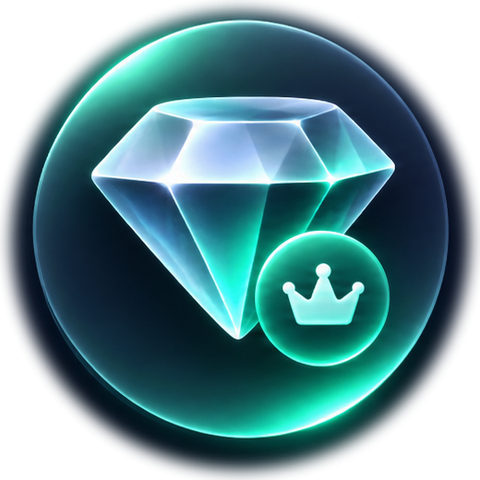
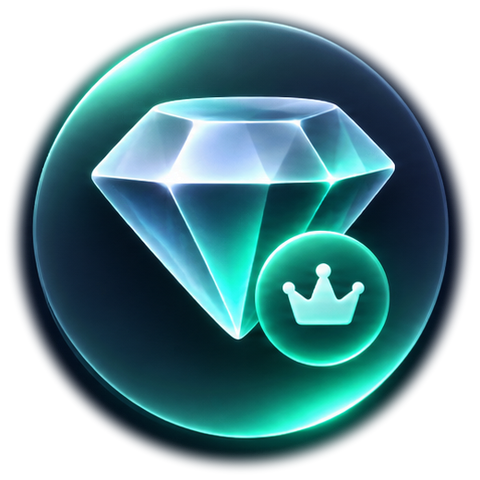
refactor(plus): compact premium layout — Pro card first, 3x2 tool grid, clean circular medallions
- Budgy Pro: now the FIRST element under the Plus header. Horizontal
  compact card (~100pt): 62pt 3D diamond left, title+status center,
  discreet chevron right, ink-blue surface with subtle emerald glow.
  Status stays exact & honest from canonical hasPremiumAccess():
  'Abonnement actif' (+mint dot) vs 'Découvrez tous les avantages'
  (no local trial date is invented — Apple trials are StoreKit intro
  offers reflected by server truth). Whole card is pressable.
- Alignment root cause FIXED: PressScale applied  to the outer
  Animated.View, so row layouts placed on it never reached the inner
  Pressable's children (vertical stacking on RN). Additive, backward
  compatible  prop now styles the Pressable touch surface;
  no other PressScale call site changes behavior.
- Tools: 3 columns x 2 rows (Dettes / Tickets & reçus / Budgy Twin,
  Mon classeur / Calendrier financier / Export PDF). Compact cards
  (~122pt, radius 17), 58pt artwork, 11.5pt two-line centered titles
  with adjustsFontSizeToFit, smaller BETA badge and Pro locks kept away
  from the art, calmer unified glow (no six glowing ads effect).
  <360pt: 50pt art + short translated label 'Calendrier' (full title
  kept for VoiceOver). Accessibility fontScale >= 1.4: adaptive 2-column
  grid, nothing lost.
- Dark square halos removed from the 7 PNGs: each medallion had a
  near-opaque squared dark glow filling the 480x480 canvas. Applied a
  smoothstep radial feather (r 210->237) on the alpha channel only —
[…]

Changed region(s): [[0.0, 0.0, 1.0, 1.0]]

diff --git a/frontend/src/components/PremiumTools.tsx b/frontend/src/components/PremiumTools.tsx
@@ -1,12 +1,15 @@
 /**
- * BUDGY — Grille d'outils premium 3D (écran Plus) + carte Budgy Pro.
- * Illustrations statiques embarquées (assets/images/premium-tools, Metro),
- * style des références « Budgy_Premium_7_Boutons » : bleu nuit profond,
- * lueur menthe subtile, fines bordures lumineuses. Titres = i18n (4 langues),
- * routes/droits = catalogue FEATURE_BY_ID existant. Aucune animation permanente.
+ * BUDGY — Écran Plus : carte Budgy Pro compacte (en premier) + grille
+ * d'outils premium 3D en 3 colonnes × 2 rangées.
+ * Illustrations statiques embarquées (assets/images/premium-tools, Metro) —
+ * médaillons circulaires à fond transparent (halo carré nettoyé).
+ * Titres = i18n (4 langues), routes/droits = catalogue FEATURE_BY_ID existant.
+ * Aucune animation permanente ; pression subtile + haptique via PressScale
+ * (layout passé au Pressable via `contentStyle` pour un alignement correct
+ * sur iOS et Web).
  */
 import React, { useMemo } from 'react';
-import { View, Text, StyleSheet, Image, useWindowDimensions, Platform } from 'react-native';
+import { View, Text, StyleSheet, Image, useWindowDimensions, Platform, PixelRatio } from 'react-native';
 import { Ionicons } from '@expo/vector-icons';
 import { LinearGradient } from 'expo-linear-gradient';
 import { useRouter } from 'expo-router';
@@ -36,8 +39,10 @@ export default function PremiumTools({ isPro }: { isPro: boolean }) {
   const { t } = useTranslation();
   const router = useRouter();
   const { width } = useWindowDimensions();
-  const singleColumn = width < 340; // petits écrans : une colonne, textes jamais coupés
-  const styles = useMemo(() => makeStyles(C, singleColumn), [C, singleColumn]);
+  const narrow = width < 360; // petit iPhone : libellés courts, visuels réduits
+  // Très grands caractères d'accessibilité : 2 colonnes pour rester utilisable
+  const cols = PixelRatio.getFontScale() >= 1.4 ? 2 : 3;
+  const styles = useMemo(() => makeStyles(C, narrow, cols), [C, narrow, cols]);
 
   const tools = Object.keys(ART)
     .map((id) => FEATURE_BY_ID[id])
@@ -48,56 +53,30 @@ export default function PremiumTools({ isPro }: { isPro: boolean }) {
     else router.push(route as any);
   };
 
+  // Libellé affiché (court sur petit écran) — VoiceOver garde le titre complet
+  const label = (f: any) =>
+    narrow && f.id === 'calendar' ? t('plusV2.shortCalendar') : t(f.titleKey);
+
   return (
     <View>
-      {/* B. Mes outils — 6 cartes premium illustrées */}
-      <Text style={styles.sectionLabel}>{t('plusV2.tools')}</Text>
-      <View style={styles.grid}>
-        {tools.map((f: any, i: number) => {
-          const locked = f.tier === 'pro' && !isPro;
-          return (
-            <Animated.View key={f.id} entering={FadeInDown.duration(380).delay(60 + i * 45)} style={styles.cell}>
-              <PressScale
-                haptic="light"
-                onPress={() => open(f.route, f.tier)}
-                style={styles.toolCard}
-                accessibilityRole="button"
-                accessibilityLabel={`${t(f.titleKey)}${locked ? ` — ${t('plusV2.proDiscover')}` : ''}`}
-              >
-                <LinearGradient
-                  colors={['rgba(52,211,153,0.16)', 'rgba(52,211,153,0.02)', 'transparent']}
-                  start={{ x: 0, y: 0 }} end={{ x: 0.9, y: 0.9 }}
-                  style={StyleSheet.absoluteFill}
-                />
-                <View style={styles.badges}>
-                  {!!f.badge && <Text style={styles.beta}>{f.badge}</Text>}
-                  {locked && <Ionicons name="lock-closed" size={12} color="rgba(255,255,255,0.55)" />}
-                </View>
-                <Image source={ART[f.id as keyof typeof ART]} style={styles.art} resizeMode="contain" />
-                <Text style={styles.toolTitle} numberOfLines={2}>{t(f.titleKey)}</Text>
-              </PressScale>
-            </Animated.View>
-          );
-        })}
-      </View>
-
-      {/* C. Budgy Pro — carte exclusive pleine largeur */}
-      <Animated.View entering={FadeInDown.duration(380).delay(340)}>
+      {/* A. Budgy Pro — carte horizontale compacte, premier élément de Plus */}
+      <Animated.View entering={FadeInDown.duration(380).delay(40)}>
         <PressScale
           haptic="medium"
           onPress={() => router.push('/pro' as any)}
           style={styles.proCard}
+          contentStyle={styles.proContent}
           accessibilityRole="button"
           accessibilityLabel={`Budgy Pro — ${isPro ? t('plusV2.proActive') : t('plusV2.proDiscover')}`}
         >
           <LinearGradient
-            colors={['rgba(52,211,153,0.20)', 'rgba(16,185,129,0.04)', 'transparent']}
+            colors={['rgba(52,211,153,0.16)', 'rgba(16,185,129,0.03)', 'transparent']}
             start={{ x: 0, y: 0 }} end={{ x: 1, y: 1 }}
             style={StyleSheet.absoluteFill}
           />
           <Image source={PRO_ART} style={styles.proArt} resizeMode="contain" />
-          <View style={{ flex: 1 }}>
-            <View style={{ flexDirection: 'row', alignItems: 'center', gap: 8 }}>
+          <View style={styles.proBody}>
+            <View style={styles.proTitleRow}>
               <Text style={styles.proTitle}>Budgy Pro</Text>
               {isPro && <View style={styles.activeDot} />}
             </View>
@@ -105,44 +84,95 @@ export default function PremiumTools({ isPro }: { isPro: boolean }) {
               {isPro ? t('plusV2.proActive') : t('plusV2.proDiscover')}
             </Text>
           </View>
-          <Ionicons name="chevron-forward" size={18} color="rgba(255,255,255,0.6)" />
+          <Ionicons name="chevron-forward" size={18} color="rgba(255,255,255,0.55)" />
         </PressScale>
       </Animated.View>
+
+      {/* B. Mes outils — 6 cartes compactes, 3 colonnes × 2 rangées */}
+      <Text style={styles.sectionLabel}>{t('plusV2.tools')}</Text>
+      <View style={styles.grid}>
+        {tools.map((f: any, i: number) => {
+          const locked = f.tier === 'pro' && !isPro;
+          return (
+            <Animated.View key={f.id} entering={FadeInDown.duration(360).delay(100 + i * 40)} style={styles.cell}>
+              <PressScale
+                haptic="light"
+                onPress={() => open(f.route, f.tier)}
+                style={styles.toolCard}
+                contentStyle={styles.toolContent}
+                accessibilityRole="button"
+                accessibilityLabel={`${t(f.titleKey)}${locked ? ` — ${t('plusV2.proDiscover')}` : ''}`}
+              >
+                <LinearGradient
+                  colors={['rgba(52,211,153,0.12)', 'rgba(52,211,153,0.02)', 'transparent']}
+                  start={{ x: 0, y: 0 }} end={{ x: 0.9, y: 0.9 }}
+                  style={StyleSheet.absoluteFill}
+                />
+                <View style={styles.badges}>
+                  {!!f.badge && <Text style={styles.beta}>{f.badge}</Text>}
+                  {locked && <Ionicons name="lock-closed" size={11} color="rgba(255,255,255,0.5)" />}
+                </View>
+                <Image source={ART[f.id as keyof typeof ART]} style={styles.art} resizeMode="contain" />
+                <Text
+                  style={styles.toolTitle}
+                  numberOfLines={2}
+                  adjustsFontSizeToFit
+                  minimumFontScale={0.82}
+                >
+                  {label(f)}
+                </Text>
+              </PressScale>
+            </Animated.View>
+          );
+        })}
+      </View>
     </View>
   );
 }
 
-const makeStyles = (C: any, single: boolean) =>
+const makeStyles = (C: any, narrow: boolean, cols: number) =>
   StyleSheet.create({
     sectionLabel: {
       color: C.textSecondary, fontSize: 12.5, fontWeight: '800',
-      textTransform: 'uppercase', letterSpacing: 0.6, marginTop: 18, marginBottom: 10,
+      textTransform: 'uppercase', letterSpacing: 0.6, marginTop: 14, marginBottom: 8,
     },
-    grid: { flexDirection: 'row', flexWrap: 'wrap', justifyContent: 'space-between' },
-    cell: { width: single ? '100%' : '48.4%', marginBottom: 10 },
-    toolCard: {
-      backgroundColor: INK, borderRadius: 20, borderWidth: 1, borderColor: INK_EDGE,
-      paddingVertical: 14, paddingHorizontal: 12, alignItems: 'center', overflow: 'hidden',
-      minHeight: single ? 150 : 158,
-      ...Platform.select({ ios: { shadowColor: MINT, shadowOpacity: 0.10, shadowRadius: 10, shadowOffset: { width: 0, height: 3 } }, default: {} }),
-    },
-    badges: { position: 'absolute', top: 10, right: 10, flexDirection: 'row', alignItems: 'center', gap: 6, zIndex: 2 },
-    beta: {
-      color: MINT, fontSize: 9, fontWeight: '800', letterSpacing: 0.5,
-      backgroundColor: 'rgba(52,211,153,0.14)', borderRadius: 6, paddingHorizontal: 6, paddingVertical: 2, overflow: 'hidden',
-    },
-    art: { width: single ? 104 : 96, height: single ? 104 : 96 },
-    toolTitle: {
-      color: '#FFFFFF', fontSize: 13.5, fontWeight: '800', textAlign: 'center',
-      marginTop: 8, lineHeight: 17,
-    },
+    // ── Budgy Pro : surface (Animated.View) + layout (Pressable) séparés ──
     proCard: {
-      backgroundColor: INK, borderRadius: 22, borderWidth: 1, borderColor: 'rgba(52,211,153,0.35)',
-      flexDirection: 'row', alignItems: 'center', gap: 12, padding: 14, marginTop: 4, overflow: 'hidden',
-      ...Platform.select({ ios: { shadowColor: MINT, shadowOpacity: 0.16, shadowRadius: 14, shadowOffset: { width: 0, height: 4 } }, default: {} }),
+      backgroundColor: INK, borderRadius: 18, borderWidth: 1, borderColor: 'rgba(52,211,153,0.32)',
+      overflow: 'hidden',
+      ...Platform.select({ ios: { shadowColor: MINT, shadowOpacity: 0.14, shadowRadius: 12, shadowOffset: { width: 0, height: 4 } }, default: {} }),
     },
-    proArt: { width: 72, height: 72 },
-    proTitle: { color: '#FFFFFF', fontSize: 17, fontWeight: '900' },
+    proContent: {
+      flexDirection: 'row', alignItems: 'center', gap: 12,
+      paddingVertical: 14, paddingHorizontal: 14, minHeight: 100,
+    },
+    proArt: { width: 62, height: 62 },
+    proBody: { flex: 1 },
+    proTitleRow: { flexDirection: 'row', alignItems: 'center', gap: 8 },
+    proTitle: { color: '#FFFFFF', fontSize: 16.5, fontWeight: '900' },
     proSub: { color: 'rgba(255,255,255,0.62)', fontSize: 12, marginTop: 3, lineHeight: 16 },
     activeDot: { width: 8, height: 8, borderRadius: 4, backgroundColor: MINT },
+    // ── Grille d'outils compacte ──
+    grid: { flexDirection: 'row', flexWrap: 'wrap', justifyContent: 'space-between' },
+    cell: { width: cols === 2 ? '48.6%' : '31.9%', marginBottom: 9 },
+    toolCard: {
+      backgroundColor: INK, borderRadius: 17, borderWidth: 1, borderColor: INK_EDGE,
+      overflow: 'hidden',
+      ...Platform.select({ ios: { shadowColor: MINT, shadowOpacity: 0.08, shadowRadius: 8, shadowOffset: { width: 0, height: 3 } }, default: {} }),
+    },
+    toolContent: {
+      alignItems: 'center', justifyContent: 'flex-start',
+      paddingTop: 12, paddingBottom: 10, paddingHorizontal: 6,
+      minHeight: narrow ? 112 : 122,
+    },
+    badges: { position: 'absolute', top: 7, right: 7, flexDirection: 'row', alignItems: 'center', gap: 5, zIndex: 2 },
+    beta: {
+      color: MINT, fontSize: 8, fontWeight: '800', letterSpacing: 0.4,
+      backgroundColor: 'rgba(52,211,153,0.14)', borderRadius: 5, paddingHorizontal: 5, paddingVertical: 1.5, overflow: 'hidden',
+    },
+    art: { width: narrow ? 50 : 58, height: narrow ? 50 : 58 },
+    toolTitle: {
+      color: '#FFFFFF', fontSize: narrow ? 10.5 : 11.5, fontWeight: '700', textAlign: 'center',
+      marginTop: 7, lineHeight: 14,
+    },
   });

diff --git a/frontend/src/i18n/translations.ts b/frontend/src/i18n/translations.ts
@@ -3335,7 +3335,7 @@ export const TRANSLATIONS = {
       charges: 'Charges fixes', dueToday: '{{name}} aujourd\'hui', dueIn: '{{name}} dans {{d}} j', perMonth: 'par mois',
       swiss: 'SERVICE SUISSE', lamalTitle: 'LAMal & subsides', lamalText: 'Comparez vos primes et explorez les économies possibles', compare: 'Comparer',
       incomes: 'Revenus', invoices: 'Factures', allPaid: 'Tout est payé', nextDueIn: 'Prochaine dans {{d}} j', pending: 'en attente', overdue: 'En retard',
-      tools: 'Mes outils', overview: 'Mon aperçu financier', proActive: 'Abonnement actif — merci !', proDiscover: 'Découvrez tous les avantages',
+      tools: 'Mes outils', shortCalendar: 'Calendrier', overview: 'Mon aperçu financier', proActive: 'Abonnement actif — merci !', proDiscover: 'Découvrez tous les avantages',
       security: 'Sécurité', prefs: 'Préférences',
     },
     en: {
@@ -3344,7 +3344,7 @@ export const TRANSLATIONS = {
       charges: 'Fixed costs', dueToday: '{{name}} today', dueIn: '{{name}} in {{d}}d', perMonth: 'per month',
       swiss: 'SWISS SERVICE', lamalTitle: 'LAMal & subsidies', lamalText: 'Compare your premiums and explore possible savings', compare: 'Compare',
       incomes: 'Income', invoices: 'Bills', allPaid: 'All paid', nextDueIn: 'Next in {{d}}d', pending: 'pending', overdue: 'Overdue',
-      tools: 'My tools', overview: 'My financial overview', proActive: 'Subscription active — thank you!', proDiscover: 'Discover all the benefits',
+      tools: 'My tools', shortCalendar: 'Calendar', overview: 'My financial overview', proActive: 'Subscription active — thank you!', proDiscover: 'Discover all the benefits',
       security: 'Security', prefs: 'Preferences',
     },
     de: {
@@ -3353,7 +3353,7 @@ export const TRANSLATIONS = {
       charges: 'Fixkosten', dueToday: '{{name}} heute', dueIn: '{{name}} in {{d}} T.', perMonth: 'pro Monat',
       swiss: 'SCHWEIZER DIENST', lamalTitle: 'KVG & Verbilligungen', lamalText: 'Vergleichen Sie Ihre Prämien und mögliche Einsparungen', compare: 'Vergleichen',
       incomes: 'Einnahmen', invoices: 'Rechnungen', allPaid: 'Alles bezahlt', nextDueIn: 'Nächste in {{d}} T.', pending: 'offen', overdue: 'Überfällig',
-      tools: 'Meine Tools', overview: 'Meine Finanzübersicht', proActive: 'Abo aktiv — danke!', proDiscover: 'Alle Vorteile entdecken',
+      tools: 'Meine Tools', shortCalendar: 'Kalender', overview: 'Meine Finanzübersicht', proActive: 'Abo aktiv — danke!', proDiscover: 'Alle Vorteile entdecken',
       security: 'Sicherheit', prefs: 'Einstellungen',
     },
     it: {
@@ -3362,7 +3362,7 @@ export const TRANSLATIONS = {
       charges: 'Spese fisse', dueToday: '{{name}} oggi', dueIn: '{{name}} tra {{d}} g', perMonth: 'al mese',
       swiss: 'SERVIZIO SVIZZERO', lamalTitle: 'LAMal & sussidi', lamalText: 'Confronta i tuoi premi ed esplora i possibili risparmi', compare: 'Confronta',
       incomes: 'Entrate', invoices: 'Fatture', allPaid: 'Tutto pagato', nextDueIn: 'Prossima tra {{d}} g', pending: 'in attesa', overdue: 'In ritardo',
-      tools: 'I miei strumenti', overview: 'La mia panoramica finanziaria', proActive: 'Abbonamento attivo — grazie!', proDiscover: 'Scopri tutti i vantaggi',
+      tools: 'I miei strumenti', shortCalendar: 'Calendario', overview: 'La mia panoramica finanziaria', proActive: 'Abbonamento attivo — grazie!', proDiscover: 'Scopri tutti i vantaggi',
       security: 'Sicurezza', prefs: 'Preferenze',
     },
   },

diff --git a/frontend/src/components/PressScale.tsx b/frontend/src/components/PressScale.tsx
@@ -17,6 +17,13 @@ interface Props extends Omit<PressableProps, 'style'> {
   scaleTo?: number;
   haptic?: 'light' | 'medium' | 'heavy' | 'selection' | 'none';
   style?: StyleProp<ViewStyle>;
+  /**
+   * Optional style applied to the inner Pressable (the touch surface).
+   * Use it for layout of children (flexDirection, padding, alignItems…):
+   * `style` lives on the outer Animated.View and does NOT lay out children.
+   * Additive prop — existing call sites are unaffected.
+   */
+  contentStyle?: StyleProp<ViewStyle>;
 }
 
 export const PressScale: React.FC<Props> = ({
@@ -27,6 +34,7 @@ export const PressScale: React.FC<Props> = ({
   onPressOut,
   onPress,
   style,
+  contentStyle,
   ...rest
 }) => {
   const scale = useSharedValue(1);
@@ -53,6 +61,7 @@ export const PressScale: React.FC<Props> = ({
     <Animated.View style={[animStyle, style]}>
       <Pressable
         {...rest}
+        style={contentStyle}
         onPressIn={(e) => {
           scale.value = withSpring(scaleTo, { damping: 15, stiffness: 200 });
           onPressIn?.(e);

diff --git a/frontend/src/components/BentoPlus.tsx b/frontend/src/components/BentoPlus.tsx
@@ -290,17 +290,6 @@ const makeStyles = (C: any) =>
       letterSpacing: 1, textTransform: 'uppercase',
       marginTop: Spacing.md, marginBottom: Spacing.sm, marginLeft: 2,
     },
-    toolsScroll: { marginHorizontal: -Spacing.lg, marginBottom: Spacing.sm },
-    toolsRow: { paddingHorizontal: Spacing.lg, gap: Spacing.xs, flexDirection: 'row' },
-    toolChip: {
-      flexDirection: 'row', alignItems: 'center', gap: 7,
-      backgroundColor: C.card, borderWidth: 1, borderColor: C.cardBorder,
-      borderRadius: 999, paddingHorizontal: Spacing.md, paddingVertical: 10,
-    },
-    toolText: { color: C.text, fontSize: FontSizes.sm, fontWeight: FontWeights.semibold },
-    proRow: { flexDirection: 'row', alignItems: 'center', gap: Spacing.md },
-    proTitle: { color: C.text, fontSize: FontSizes.md, fontWeight: FontWeights.bold },
-    activeDot: { width: 8, height: 8, borderRadius: 4 },
     settingsRow: { flexDirection: 'row', gap: Spacing.sm, marginBottom: Spacing.xs },
     settingTile: {
       flex: 1, alignItems: 'center', gap: 5,
